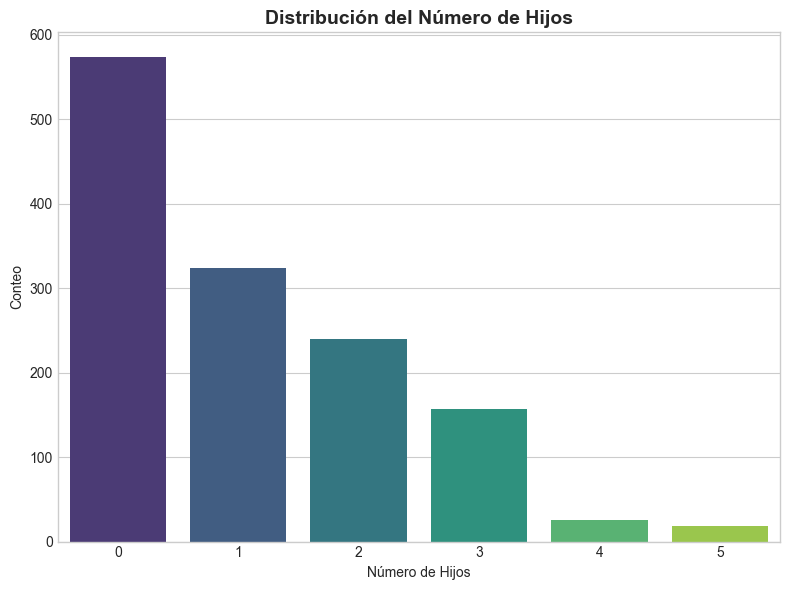
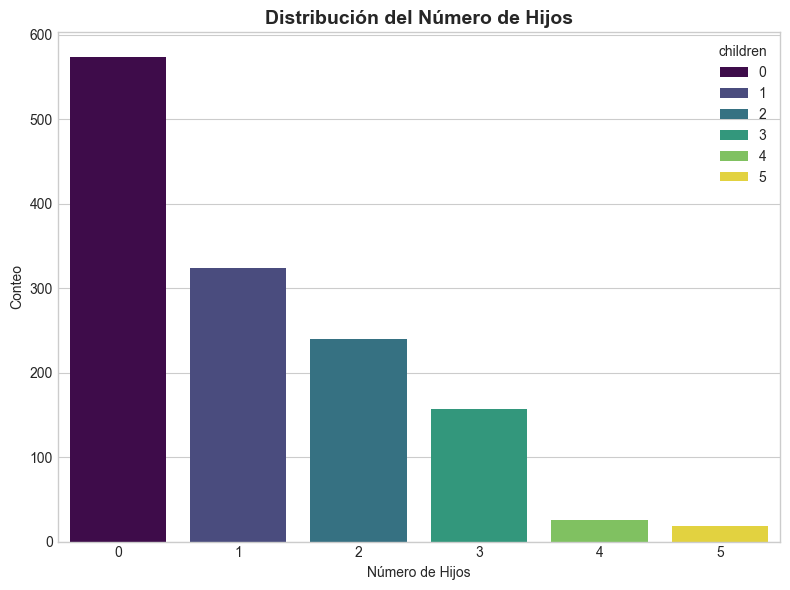
New pipeline Dummies

diff --git a/src/medicalcost/pipelines/model_classification/nodes.py b/src/medicalcost/pipelines/model_classification/nodes.py
@@ -15,28 +15,24 @@ import json
 
 
 def preprocess_classification_data(df_raw: pd.DataFrame) -> pd.DataFrame:
-    """Preprocesses the raw data for classification by creating a target variable and dummy variables.
+    """Preprocesses the data for classification by creating a binary target variable.
 
     Args:
-        df_raw: The raw medical insurance data.
+        df_raw: The featured medical insurance data (with dummy variables).
 
     Returns:
-        The preprocessed DataFrame with a classification target and dummy variables.
+        The DataFrame with the 'cost_category' target and 'charges' dropped.
     """
     df_clasificacion = df_raw.copy()
     umbral_costo = df_clasificacion["charges"].median()
     df_clasificacion["cost_category"] = np.where(
         df_clasificacion["charges"] > umbral_costo, "Alto", "Bajo"
     )
-    df_clasificacion = df_clasificacion.drop("charges", axis=1)
-    df_model_cls = df_clasificacion.copy()
-    df_model_cls = pd.get_dummies(
-        df_model_cls, columns=["sex", "smoker", "region"], drop_first=True
-    )
-    df_model_cls["cost_category"] = df_model_cls["cost_category"].map(
+    df_clasificacion["cost_category"] = df_clasificacion["cost_category"].map(
         {"Bajo": 0, "Alto": 1}
     )
-    return df_model_cls
+    df_clasificacion = df_clasificacion.drop("charges", axis=1)
+    return df_clasificacion
 
 
 def split_classification_data(

diff --git a/src/medicalcost/pipelines/model_regression/nodes.py b/src/medicalcost/pipelines/model_regression/nodes.py
@@ -12,42 +12,6 @@ import logging
 log = logging.getLogger(__name__)
 
 
-def preprocess_data(df_raw: pd.DataFrame) -> pd.DataFrame:
-    """Cleans, validates, and preprocesses the raw data by creating dummy variables.
-
-    Args:
-        df_raw: The raw medical insurance data.
-
-    Returns:
-        The preprocessed DataFrame ready for model training.
-    """
-    # 1. Limpieza y validación (similar a data_processing)
-    log.info(f"Tamaño original del dataset: {df_raw.shape[0]} filas.")
-    cleaned_data = df_raw.dropna().copy()
-    log.info(
-        f"Tamaño del dataset después de eliminar nulos: {cleaned_data.shape[0]} filas."
-    )
-
-    expected_types = {
-        "sex": "category",
-        "smoker": "category",
-        "region": "category",
-    }
-    actual_types_to_convert = {
-        col: dtype
-        for col, dtype in expected_types.items()
-        if col in cleaned_data.columns
-    }
-    cleaned_data = cleaned_data.astype(actual_types_to_convert)
-    log.info("Tipos de datos categóricos validados.")
-
-    # 2. Creación de variables dummy
-    df_model = pd.get_dummies(
-        cleaned_data, columns=["sex", "smoker", "region"], drop_first=True
-    )
-    return df_model
-
-
 def train_model(
     df_model: pd.DataFrame,
 ) -> tuple[LinearRegression, pd.DataFrame, pd.Series, pd.Series, pd.DataFrame]:

diff --git a/src/medicalcost/pipelines/exploratory_data/nodes.py b/src/medicalcost/pipelines/exploratory_data/nodes.py
@@ -1,6 +1,9 @@
 import pandas as pd
 import numpy as np
 import seaborn as sns
+import matplotlib
+
+matplotlib.use("Agg")  # Use non-interactive backend
 import matplotlib.pyplot as plt
 from matplotlib.figure import Figure
 from sklearn.linear_model import LinearRegression
@@ -80,8 +83,13 @@ def plot_univariate_regressions(
     # Plot smoker vs. charges
     fig_smoker_vs_charges, ax_smoker = plt.subplots(figsize=(8, 6))
     sns.boxplot(
-        x="smoker", y="charges", data=df_raw, ax=ax_smoker, palette="viridis"
-    )  # Added palette
+        x="smoker",
+        y="charges",
+        data=df_raw,
+        ax=ax_smoker,
+        palette="viridis",
+        hue="smoker",
+    )
     ax_smoker.set_title(
         "Distribución de Costos: Fumadores vs. No Fumadores", fontsize=14, weight="bold"
     )
@@ -194,7 +202,9 @@ def plot_numerical_distributions(
 
     # Bar plot for discrete numerical column (children)
     fig_children_bar, ax_children = plt.subplots(figsize=(8, 6))
-    sns.countplot(x="children", data=df_raw, ax=ax_children, palette="viridis")
+    sns.countplot(
+        x="children", data=df_raw, ax=ax_children, palette="viridis", hue="children"
+    )
     ax_children.set_title(
         "Distribución del Número de Hijos", fontsize=14, weight="bold"
     )

diff --git a/src/medicalcost/pipeline_registry.py b/src/medicalcost/pipeline_registry.py
@@ -8,6 +8,7 @@ from medicalcost.pipelines import (
     data_engineering,
     data_processing,
     exploratory_data,
+    feature_engineering,
     model_regression,
 )
 from medicalcost.pipelines import model_classification
@@ -23,6 +24,7 @@ def register_pipelines() -> dict[str, Pipeline]:
     data_engineering_pipeline = data_engineering.create_pipeline()
     exploratory_data_pipeline = exploratory_data.create_pipeline()
     data_processing_pipeline = data_processing.create_pipeline()
+    feature_engineering_pipeline = feature_engineering.create_pipeline()
     model_regression_pipeline = model_regression.create_pipeline()
     model_classification_pipeline = model_classification.create_pipeline()
 
@@ -30,6 +32,7 @@ def register_pipelines() -> dict[str, Pipeline]:
         data_engineering_pipeline  # First, load raw data
         + exploratory_data_pipeline  # Then, explore the raw data
         + data_processing_pipeline
+        + feature_engineering_pipeline
         + model_regression_pipeline
         + model_classification_pipeline
     )

diff --git a/src/medicalcost/pipelines/model_regression/pipeline.py b/src/medicalcost/pipelines/model_regression/pipeline.py
@@ -1,20 +1,14 @@
 from kedro.pipeline import Pipeline, node, pipeline
 
-from .nodes import preprocess_data, train_model, evaluate_model
+from .nodes import train_model, evaluate_model
 
 
 def create_pipeline(**kwargs) -> Pipeline:
     return pipeline(
         [
             node(
-                func=preprocess_data,
-                inputs="raw_medical_data_csv",
-                outputs="model_input_data",
-                name="preprocess_medical_data_node",
-            ),
-            node(
                 func=train_model,
-                inputs="model_input_data",
+                inputs="featured_medical_data",
                 outputs=["reg_model", "reg_X_test", "reg_y_test", "y_pred", "X"],
                 name="train_linear_regression_model_node",
             ),

diff --git a/src/medicalcost/pipelines/model_classification/pipeline.py b/src/medicalcost/pipelines/model_classification/pipeline.py
@@ -16,13 +16,13 @@ def create_pipeline(**kwargs) -> Pipeline:
         [
             node(
                 func=preprocess_classification_data,
-                inputs="raw_medical_data_csv",
-                outputs="classification_model_input_data",
+                inputs="featured_medical_data",
+                outputs="classification_input_data_with_target",
                 name="preprocess_classification_data_node",
             ),
             node(
                 func=split_classification_data,
-                inputs="classification_model_input_data",
+                inputs="classification_input_data_with_target",
                 outputs=[
                     "cls_X_train",
                     "cls_X_test",

diff --git a/src/medicalcost/pipelines/feature_engineering/nodes.py b/src/medicalcost/pipelines/feature_engineering/nodes.py
@@ -1,0 +1,21 @@
+import pandas as pd
+import logging
+
+log = logging.getLogger(__name__)
+
+
+def create_dummy_variables(df: pd.DataFrame) -> pd.DataFrame:
+    """
+    Convierte las columnas categóricas en variables dummy usando one-hot encoding.
+
+    Args:
+        df: DataFrame procesado.
+
+    Returns:
+        DataFrame con las variables dummy añadidas.
+    """
+    log.info("Creando variables dummy para 'sex', 'smoker', y 'region'.")
+    df_featured = pd.get_dummies(
+        df, columns=["sex", "smoker", "region"], drop_first=True
+    )
+    return df_featured

diff --git a/src/medicalcost/pipelines/feature_engineering/pipeline.py b/src/medicalcost/pipelines/feature_engineering/pipeline.py
@@ -1,0 +1,15 @@
+from kedro.pipeline import Pipeline, node, pipeline
+from .nodes import create_dummy_variables
+
+
+def create_pipeline(**kwargs) -> Pipeline:
+    return pipeline(
+        [
+            node(
+                func=create_dummy_variables,
+                inputs="processed_medical_data_excel",
+                outputs="featured_medical_data",
+                name="create_dummy_variables_node",
+            )
+        ]
+    )

diff --git a/src/medicalcost/pipelines/feature_engineering/__init__.py b/src/medicalcost/pipelines/feature_engineering/__init__.py
@@ -1,0 +1,3 @@
+from .pipeline import create_pipeline
+
+__all__ = ["create_pipeline"]
